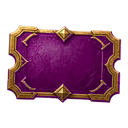
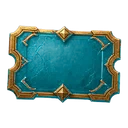
스페셜 소환권 청록색으로 구분 (프리미엄=빨강 그대로) + 이름 색·아이콘 통일

diff --git a/js/story.js b/js/story.js
@@ -2145,13 +2145,13 @@
     sh?.addEventListener('keydown', e => { if ((e.key === 'Enter' || e.key === ' ') && e.target.closest('[data-pulled]')) { e.preventDefault(); onTap(e); } });
   }
   const GACHA_BANNERS = [{ key: 'daily', label: '일반' }, { key: 'special', label: '프리미엄' }, { key: 'pickup', label: '스페셜', img: 'special' }];   // pickup = 스페셜 소환 (이벤트 픽업)
-  const spBadge = () => `<span class="story-ticket sp-ticket" title="스페셜 소환권">✨ <b>${window.VRSpecial?.tickets ?? '…'}</b></span>`;
+  const spBadge = () => `<span class="story-ticket sp-ticket" title="스페셜 소환권"><img class="ui-ic tk-ic sp" src="img/ui/ticket_special.webp" alt="스페셜 소환권"> <b>${window.VRSpecial?.tickets ?? '…'}</b></span>`;
   /** 스페셜 소환 보유·천장 줄 */
   const spPick = () => { const S = window.VRSpecial, k = S.ursToPickup, nm = esc(S.banner().pickup_name || ''); return k <= 1 ? `다음 UR은 ${nm} 확정` : `${nm} 확정까지 UR ${k}번`; };
   function spOwn() {
     const S = window.VRSpecial, b = S?.banner();
     if (!S || !b?.open) return `<div class="gr-own sp-own" id="gr-own">스페셜 소환 <b class="sp-prep">준비 중</b></div>`;
-    return `<div class="gr-own sp-own" id="gr-own">보유 스페셜 소환권 ✨ <b id="sp-own-n">${S.tickets ?? '…'}</b><br><small id="sp-pick">${spPick()}</small> <button type="button" class="sp-help" data-sp-help aria-label="천장 안내">?</button></div>`;
+    return `<div class="gr-own sp-own" id="gr-own">보유 <span class="tk-name sp">스페셜 소환권</span> <img class="ui-ic tk-ic sp" src="img/ui/ticket_special.webp" alt="스페셜 소환권"> <b id="sp-own-n">${S.tickets ?? '…'}</b><br><small id="sp-pick">${spPick()}</small> <button type="button" class="sp-help" data-sp-help aria-label="천장 안내">?</button></div>`;
   }
   function renderShop(tab) {
     if (tab) shopTab = tab;
@@ -2173,7 +2173,7 @@
       ${pickup ? spOwn() : daily ? '' : `<div class="gr-own" id="gr-own">보유 소환권 ${ICN('ticket', '🎟', '소환권')} <b>${tickets ?? '…'}</b>${urTickets ? `<span class="gr-own-ur"> · UR 확정권 🎫 <b id="gr-own-ur">${urTickets}</b></span>` : ''}</div>`}
       <div class="gr-actions">${daily
         ? `${avail ? `<button id="gacha-go" class="gr-go">${ICN('gacha', '🎴')} 뽑기</button>` : ''}<div id="gacha-next" class="gr-next"></div>`
-        : pickup ? `<button class="gr-go" data-draw="1" data-sp="1" ${spOpen && (window.VRSpecial.tickets | 0) >= 1 ? '' : 'disabled'}>1회 <small>✨1</small></button><button class="gr-go gr-go10" data-draw="10" data-sp="1" ${spOpen && (window.VRSpecial.tickets | 0) >= 10 ? '' : 'disabled'}>10회 <small>✨10</small></button>`
+        : pickup ? `<button class="gr-go" data-draw="1" data-sp="1" ${spOpen && (window.VRSpecial.tickets | 0) >= 1 ? '' : 'disabled'}>1회 <small><img class="ui-ic tk-ic sp" src="img/ui/ticket_special.webp" alt="스페셜 소환권">1</small></button><button class="gr-go gr-go10" data-draw="10" data-sp="1" ${spOpen && (window.VRSpecial.tickets | 0) >= 10 ? '' : 'disabled'}>10회 <small><img class="ui-ic tk-ic sp" src="img/ui/ticket_special.webp" alt="스페셜 소환권">10</small></button>`
         : `<button class="gr-go" data-draw="1" ${(tickets | 0) >= 1 ? '' : 'disabled'}>1회 <small>${ICN('ticket', '🎟')}1</small></button><button class="gr-go gr-go10" data-draw="10" ${(tickets | 0) >= 10 ? '' : 'disabled'} title="HR 이상 1장 보장">10회 <small>${ICN('ticket', '🎟')}10</small></button>${urTickets ? `<button class="gr-go gr-go-ur" data-draw="1" data-ur="1" title="고급 소환 UR 11명 중 1명 확정">UR 확정 <small>🎫1</small></button>` : ''}`}</div>
       ${daily || pickup ? '' : `<div class="gr-gem" id="gr-gem">${gemRow()}</div>`}</div>`, 'gacha');
     gateLayout(); preloadGachaVideo();

diff --git a/js/shop.js b/js/shop.js
@@ -52,7 +52,7 @@
     const x2 = p.tab === 'charge' && p.first_open ? '<span class="shop-x2">첫 구매 ×2</span>' : '';
     const ui = f => `<img class="ui-ic" src="img/ui/${f}.webp" alt="">`;
     const ic = p.tab === 'charge' ? GEM : p.tab === 'pass' ? ui('star') : p.tab === 'popup' ? ui('reward') : p.grant?.special_tickets ? SPT : p.grant?.tickets ? TK : ui('level_up');
-    return `<article class="shop-card shop-${esc(p.tab)}">${x2}<div class="shop-card-h"><span class="shop-ic">${ic}</span><b>${esc(p.name)}</b></div>
+    return `<article class="shop-card shop-${esc(p.tab)}">${x2}<div class="shop-card-h"><span class="shop-ic">${ic}</span><b${p.grant?.special_tickets ? ' class="tk-name sp"' : p.grant?.tickets && p.tab === 'pack' ? ' class="tk-name prem"' : ''}>${esc(p.name)}</b></div>
       ${p.tab === 'charge' ? `<p class="shop-bonus">${esc(gemText(p))}</p>` : `<p>${drk(esc(p.blurb))}</p>`}
       <p class="shop-price">${n(p.price_krw)}원</p>${limitText(p)}
       <button type="button" class="shop-go ${done ? '' : 'test'}" data-sku="${esc(p.sku)}" ${done || !test ? 'disabled' : ''}>${label}</button></article>`;
@@ -90,7 +90,7 @@
     const items = cache?.gem_items || [], gear = cache?.gear || [], R = cache?.gear_rates || {};
     const icOf = g => g.grant?.special_tickets ? SPT : g.grant?.tickets ? TK : g.grant?.drink ? DRK : GEM;
     const rows = items.map(g => { const k = qty[g.sku] || 1;
-      return `<div class="shop-qrow"><span class="shop-ic">${icOf(g)}</span><div class="shop-qmeta"><b>${g.grant?.drink ? `<span class="drk-name paid">${esc(g.name)}</span>` : esc(g.name)}</b><small>${GEM}${n(g.price)} / 1개</small></div>
+      return `<div class="shop-qrow"><span class="shop-ic">${icOf(g)}</span><div class="shop-qmeta"><b${g.grant?.special_tickets ? ' class="tk-name sp"' : g.grant?.tickets ? ' class="tk-name prem"' : ''}>${g.grant?.drink ? `<span class="drk-name paid">${esc(g.name)}</span>` : esc(g.name)}</b><small>${GEM}${n(g.price)} / 1개</small></div>
         <div class="shop-qty"><button type="button" data-q="${esc(g.sku)}" data-d="-1" aria-label="빼기">−</button><input type="number" inputmode="numeric" min="1" max="${g.max_qty | 0}" value="${k}" data-qi="${esc(g.sku)}" aria-label="${esc(g.name)} 수량"><button type="button" data-q="${esc(g.sku)}" data-d="1" aria-label="더하기">＋</button></div>
         <button type="button" class="shop-go" data-gem-item="${esc(g.sku)}">${GEM}${n(g.price * k)}</button></div>`; }).join('');
     const cells = gear.map(g => `<button type="button" class="shop-gear g-${esc(g.grade)} ${g.bought ? 'sold' : ''}" data-gear="${g.slot_no | 0}" ${g.bought ? 'disabled' : ''}>

diff --git a/js/gear.js b/js/gear.js
@@ -231,7 +231,7 @@
   const CURN = { gold: '🪙 골드', blood: '🩸 순수한 피', shard: '💠 이상한 조각', soul: '🔥 각성자의 혼' };
   const hasAtt = p => !!p && Object.keys(p).length > 0;
   const attTxt = p => { p = p || {}; const a = [];
-    if (p.gem) a.push(`${window.VRGem?.ICON || '💎'} 심연석 ${fmt(p.gem)}`); if (p.gem_paid) a.push(`${window.VRGem?.ICON || '💎'} 유료 심연석 ${fmt(p.gem_paid)}`); if (p.tickets) a.push(`🎟 소환권 ${p.tickets}`); if (p.special_tickets) a.push(`🎟 스페셜 소환권 ${p.special_tickets}`); if (p.ur_tickets) a.push(`🎫 UR 확정권 ${p.ur_tickets}장`); if (p.stamina) a.push(`⚡ 행동력 ${fmt(p.stamina)}`);
+    if (p.gem) a.push(`${window.VRGem?.ICON || '💎'} 심연석 ${fmt(p.gem)}`); if (p.gem_paid) a.push(`${window.VRGem?.ICON || '💎'} 유료 심연석 ${fmt(p.gem_paid)}`); if (p.tickets) a.push(`<img class="ui-ic tk-ic prem" src="img/ui/ticket.webp" alt="소환권"><span class="tk-name prem">소환권</span> ${p.tickets}`); if (p.special_tickets) a.push(`<img class="ui-ic tk-ic sp" src="img/ui/ticket_special.webp" alt="스페셜 소환권"><span class="tk-name sp">스페셜 소환권</span> ${p.special_tickets}`); if (p.ur_tickets) a.push(`🎫 UR 확정권 ${p.ur_tickets}장`); if (p.stamina) a.push(`⚡ 행동력 ${fmt(p.stamina)}`);
     if (p.drink) a.push(`<img class="ui-ic drk-ic paid" src="img/ui/cur_drink_paid.webp" alt="유료 드링크"><span class="drk-name paid">유료 드링크</span> ${fmt(p.drink)}`); if (p.drink_bound) a.push(`<img class="ui-ic drk-ic free" src="img/ui/cur_drink_free.webp" alt="무료 드링크"><span class="drk-name free">무료 드링크</span> ${fmt(p.drink_bound)}`); if (p.card) a.push(`🎴 ${esc((window.VRStory?.api?.card?.(p.card) || window.TCG?.cardById?.(p.card))?.name || '인재')} 1장`); if (typeof p.cards === 'number') a.push(`🎴 인재 ${p.cards}장`);
     Object.entries(p.cur || {}).forEach(([k, v]) => a.push(`${CURN[k] || k} ${fmt(v)}`)); if (p.gear) a.push(`🛡 ${esc(defs[p.gear]?.name || '장비')}`); return a.join(' · '); };
   const forever = t => !t || /infinity/i.test(String(t)) || !Number.isFinite(new Date(t).getTime()) || new Date(t).getFullYear() > 9000;

diff --git a/js/attendance.js b/js/attendance.js
@@ -17,7 +17,7 @@
   const K = {
     gold: ['골드', 'img/ui/cur_gold.webp'], blood: ['피', 'img/ui/cur_blood.webp'], shard: ['조각', 'img/ui/cur_shard_small.webp'],
     gem_free: ['무료 심연석', 'img/ui/guild/cur_gem.webp'], drink: ['무료 드링크', 'img/ui/cur_drink_free.webp'],
-    tickets: ['소환권', 'img/ui/ticket.webp'], special_tickets: ['스페셜 소환권', null],
+    tickets: ['소환권', 'img/ui/ticket.webp'], special_tickets: ['스페셜 소환권', 'img/ui/ticket_special.webp'],
   };
   const ORDER = Object.keys(K);
   const ents = r => ORDER.filter(k => r?.[k]).map(k => [k, r[k]]);

diff --git a/css/gem.css b/css/gem.css
@@ -230,3 +230,9 @@
 .drk-name.free { color: #4ade80; }
 .drk-ic.paid { filter: drop-shadow(0 0 3px rgba(251, 191, 36, .55)); }
 .drk-ic.free { filter: drop-shadow(0 0 3px rgba(74, 222, 128, .5)); }
+
+/* 프리미엄(빨강) · 스페셜(청록) 소환권 구분 — img/ui/ticket.webp · ticket_special.webp */
+.tk-name { font-weight: 700; }
+.tk-name.prem { color: #f87171; }
+.tk-name.sp { color: #22d3ee; }
+.tk-ic.sp { filter: drop-shadow(0 0 3px rgba(34, 211, 238, .55)); }
